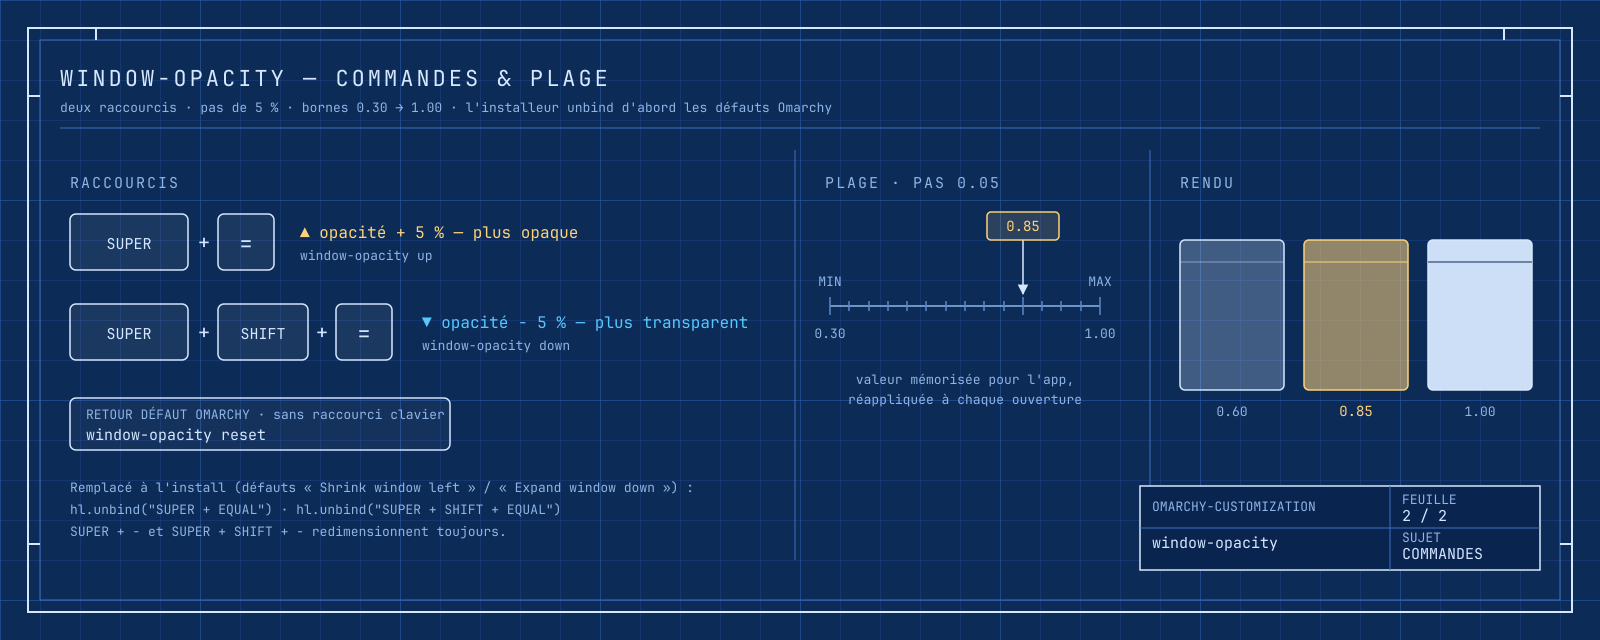
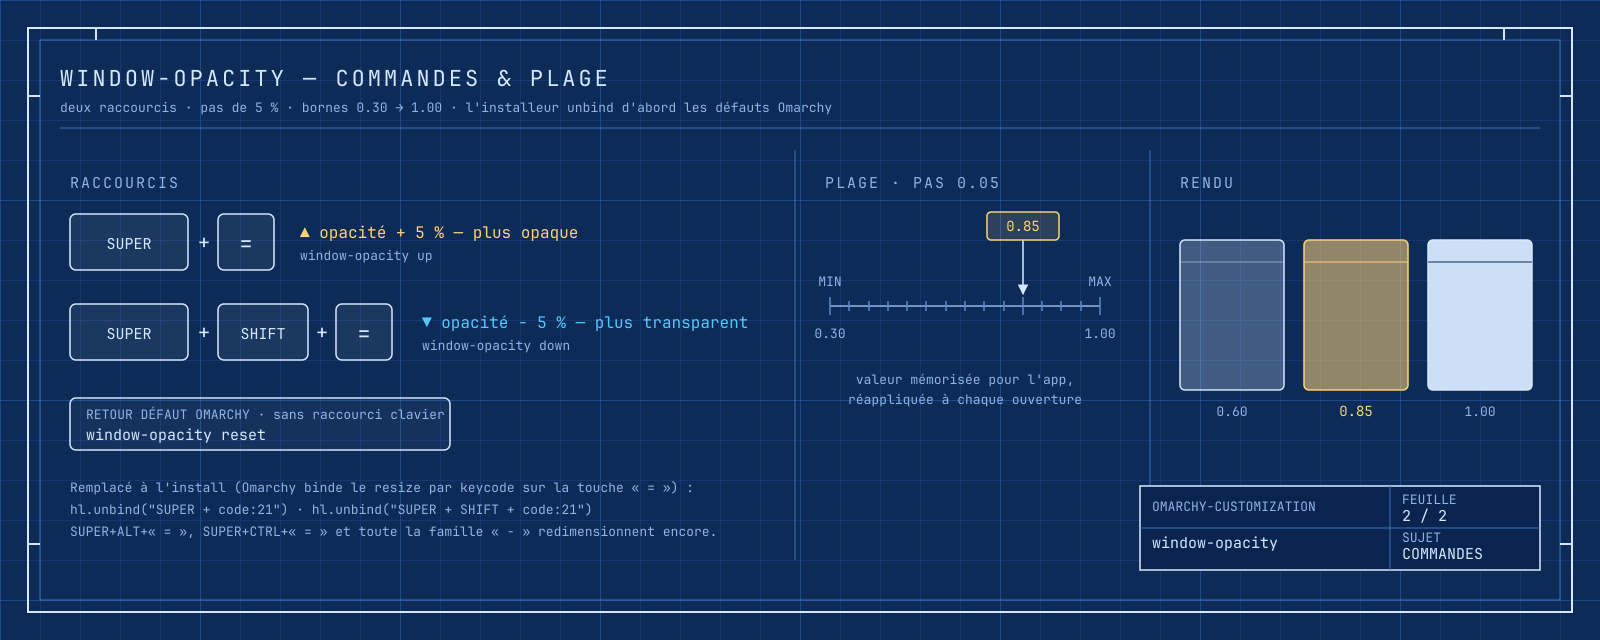
window-opacity : unbind le resize par keycode (code:21), pas par keysym
SUPER+= et SUPER+SHIFT+= continuaient à redimensionner : Omarchy binde
« Shrink window left » / « Expand window down » sur SUPER+code:21 et
SUPER+SHIFT+code:21 (par keycode), donc hl.unbind("SUPER + EQUAL") ne les
retirait pas. On unbind et rebind maintenant en code:21, ce qui règle aussi
l'AZERTY (SHIFT + « = » produit le keysym « plus », pas « equal »).

README et blueprint-keys mis à jour.

Changed region(s): [[0.0625, 0.75, 0.4375, 0.8438]]

diff --git a/window-opacity/README.md b/window-opacity/README.md
@@ -20,8 +20,12 @@ la fenêtre focalisée **immédiatement** *et* écrit une règle persistante.
 | `SUPER SHIFT + =` | `window-opacity down` | −5 % (plus transparente) |
 
 `SUPER + =` et `SUPER SHIFT + =` étaient les défauts Omarchy *« Shrink window
-left »* / *« Expand window down »* ; l'installeur les `hl.unbind` d'abord.
-`SUPER + -` / `SUPER SHIFT + -` redimensionnent toujours.
+left »* / *« Expand window down »*. Omarchy les binde **par keycode**
+(`SUPER + code:21`), donc l'installeur `hl.unbind` la forme `code:21` — pas
+`SUPER + EQUAL`, qui ne matcherait pas — et rebinde en `code:21` (indépendant
+de la disposition : en AZERTY, `SHIFT + =` donne le keysym `plus`, pas `equal`).
+`SUPER + ALT + =` et `SUPER + CTRL + =` redimensionnent encore (variantes
+*« a little »* / *« a lot »*), de même que toute la famille sur `-`.
 
 En ligne de commande (le script est dans `~/.local/bin`) :
 
@@ -87,7 +91,8 @@ L'installeur :
 1. copie `bin/window-opacity` → `~/.local/bin/window-opacity` (mode 755) ;
 2. crée `~/.config/hypr/window-opacity.lua` (vide s'il n'existe pas) ;
 3. ajoute `require("hypr.window-opacity")` à `~/.config/hypr/hyprland.lua` ;
-4. ajoute les 2 raccourcis (+ 2 `hl.unbind`) à `~/.config/hypr/bindings.lua` ;
+4. ajoute les 2 raccourcis (`SUPER + code:21` / `SUPER + SHIFT + code:21`,
+   après `hl.unbind` des défauts keycode) à `~/.config/hypr/bindings.lua` ;
 5. `hyprctl reload` puis vérifie `hyprctl configerrors`.
 
 **Idempotent** : chaque bloc ajouté est encadré par des marqueurs
